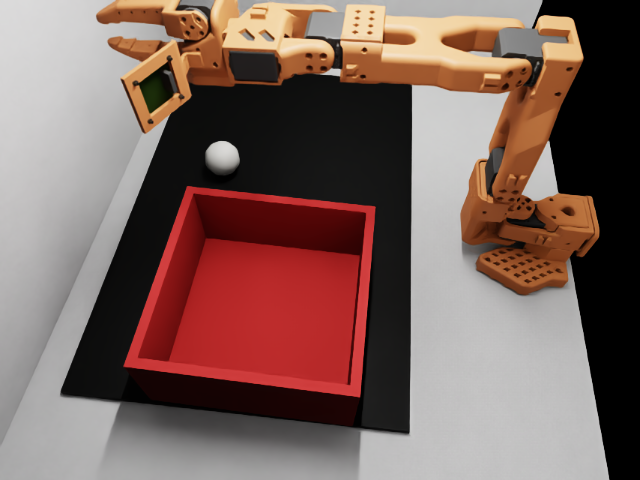
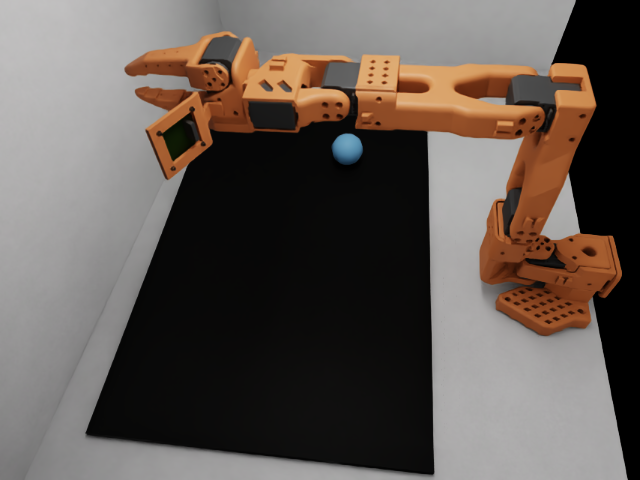
Sim-to-real: the one-ball scene, colour drawn per reset, success by lifting

diff --git a/README.md b/README.md
@@ -153,7 +153,7 @@ On the arm, v1 reached the ball and hovered beside it. v2 reaches and descends o
 
 ![ACT-15000 closed-loop rollout on the arm](assets/rollout_act15k.gif)
 
-🎮 **Sim-to-real.** The same task in Isaac Lab on NVIDIA's Sim-to-Real SO-101 workshop scene, with the workshop's vials and rack swapped for this rig's ball and red box. The environment steps headless with both cameras rendering (20 steps in 1.2 s on an RTX 2080) and ends the episode when the ball is inside the box.
+🎮 **Sim-to-real.** The same task in Isaac Lab on NVIDIA's Sim-to-Real SO-101 workshop scene, with the workshop's vials and rack swapped for this rig's single ping-pong ball, in one of three colours drawn at random on every reset. The environment steps headless with both cameras rendering (20 steps in 1.2 s on an RTX 2080) and ends the episode when the ball is lifted off the mat; a variant keeps the red box as the target.
 
 ![Isaac Lab: the ball task on the workshop scene](assets/isaac_pick_ball.png)
 
